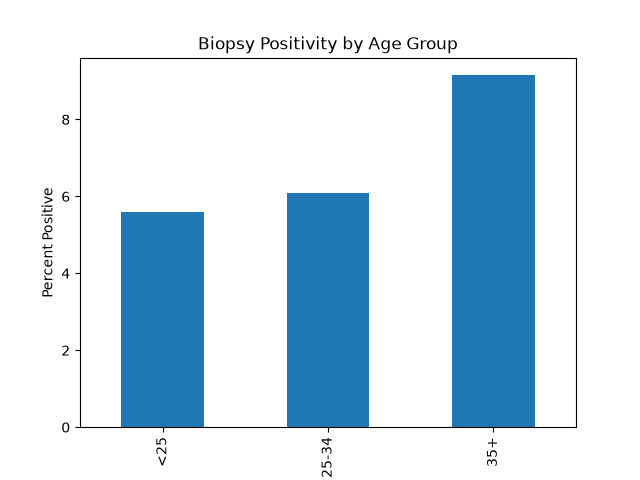
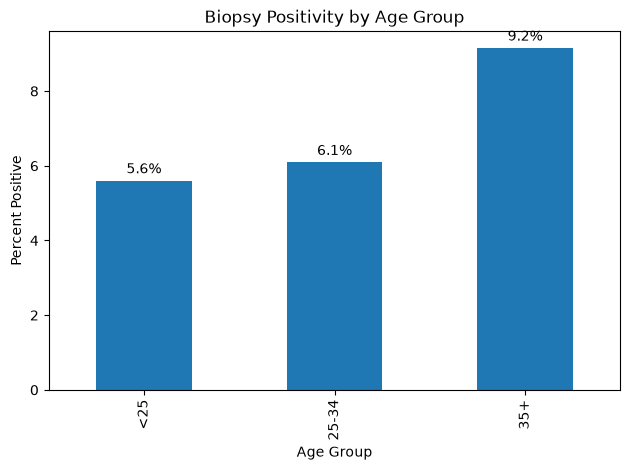
updated figures

diff --git a/analysis.py b/analysis.py
@@ -45,13 +45,20 @@ print("Biopsy positivity rate:", biopsy_rate)
 # display as a percent
 print("Biopsy positivity percent:", biopsy_rate * 100)
 
-# create a bar chart showing the distribution of biopsy results
-df["Biopsy"].value_counts().plot(kind="bar")
+# create a pie chart showing the distribution of biopsy results
+biopsy_counts = df["Biopsy"].value_counts()
 
-# add chart labels and titles
+plt.figure(figsize=(6, 6))
+
+plt.pie(
+    biopsy_counts,
+    labels=["Negative", "Positive"],
+    autopct="%1.1f%%",
+    startangle=90,
+    colors=["#4C72B0", "#C44E52"],
+)
+# add the title
 plt.title("Biopsy Results")
-plt.xlabel("Biopsy")
-plt.ylabel("Count")
 # save the figure for inclusion in the project report and poster
 plt.savefig("biopsy_results.png")
 # close the figure to prepare for the next visualization
@@ -103,12 +110,16 @@ age_table = pd.crosstab(df["Age_Group"], df["Biopsy"], normalize="index") * 100
 
 # create a bar chart showing biopsy positivity percentages across age groups
 age_table[1].plot(kind="bar")
+# add percentage labels above each bar
+for i, value in enumerate(age_table[1]):
+    plt.text(i, value + 0.2, f"{value:.1f}%", ha="center")
 # add chart labels and titles
 plt.title("Biopsy Positivity by Age Group")
 plt.xlabel("Age Group")
 plt.ylabel("Percent Positive")
 # save the figure for inclusion in the project report and poster
-plt.savefig("age_group_results.png")
+plt.tight_layout()
+plt.savefig("age_group_results.png", bbox_inches="tight")
 # close the figure to prepare for the next visualization
 plt.close()
 
@@ -166,12 +177,23 @@ contraceptive_table = (
 print(contraceptive_table)
 
 # create a bar chart showing the percentage of women with positive biopsy results in each contraceptive-use group
-contraceptive_table[1].plot(kind="bar")
+contraceptive_table.plot(
+    kind="bar", stacked=True, color=["#4C72B0", "#D62728"], figsize=(8, 5)
+)
+for i, row in enumerate(contraceptive_table.values):
+    negative = row[0]
+    positive = row[1]
 
+    plt.text(i, negative / 2, f"{negative:.1f}%", ha="center", color="white")
+
+    plt.text(i, negative + positive / 2, f"{positive:.1f}%", ha="center", color="white")
 # add chart labels and titles
 plt.title("Biopsy Results by Hormonal Contraceptive Use")
 plt.xlabel("Hormonal Contraceptive Use")
-plt.ylabel("Percent positive")
+plt.ylabel("Percent of Participants")
+plt.xticks([0, 1], ["No", "Yes"], rotation=0)
+plt.legend(["Negative", "Positive"], title="Biopsy Result")
+
 # save the figure for inclusion in the project report and poster
 plt.savefig("contraception_results_percent.png")
 # close the figure to prepare for the next visualization
